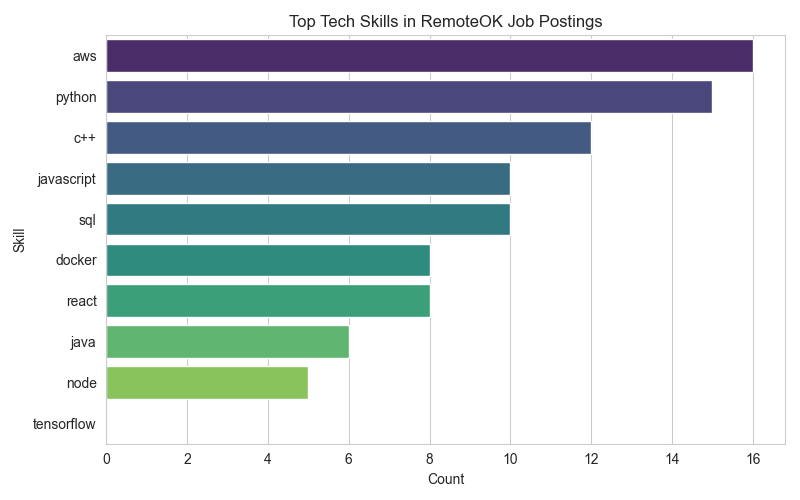
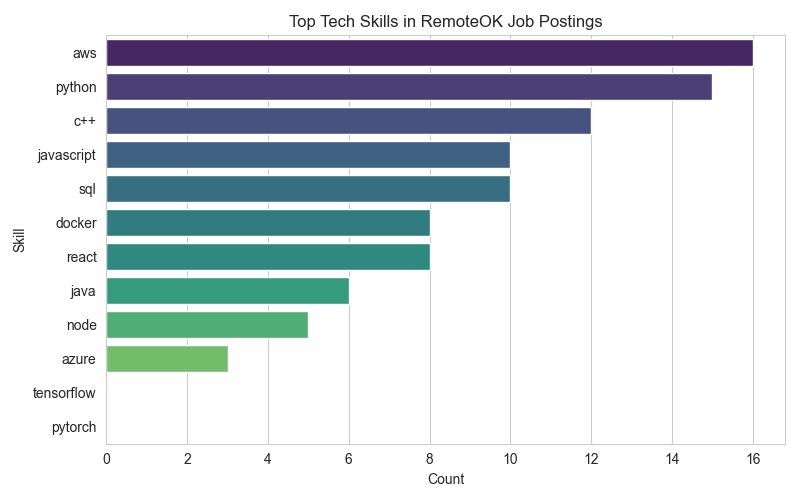
Added some skills to look for

diff --git a/scraper.py b/scraper.py
@@ -30,9 +30,9 @@ if df.empty:
     print("No jobs found. Exiting.")
     exit()
 
-# 2. SKILL FREQUENCY ANALYSIS
+# frequency analysis
 
-skills = ["python", "java", "javascript", "c++", "sql", "aws", "docker", "react", "node", "tensorflow"]
+skills = ["python", "java", "javascript", "c++", "sql", "aws", "docker", "react", "node", "tensorflow","pytorch","azure"]
 freq = {skill: 0 for skill in skills}
 
 for desc in df['description']:
